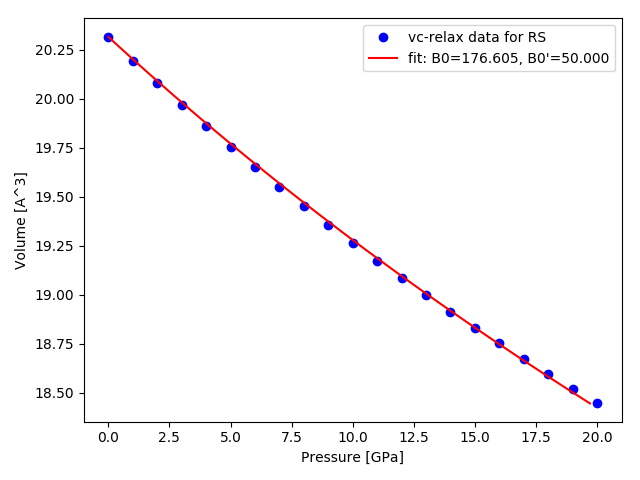
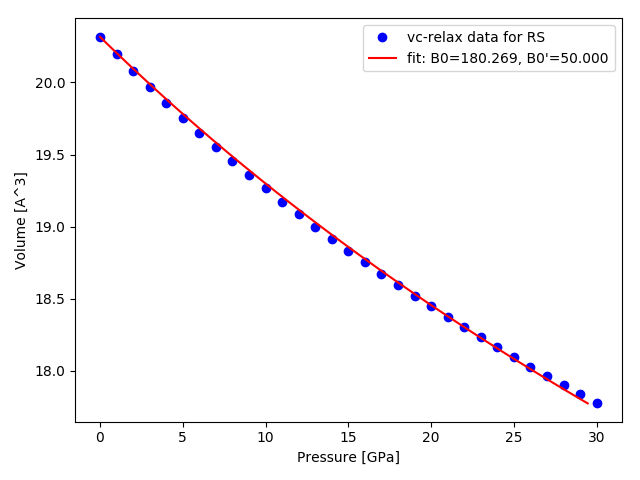
Change code and images for problem 3

diff --git a/3_bulk_modulus/plot.eos.relax.py b/3_bulk_modulus/plot.eos.relax.py
@@ -8,7 +8,7 @@ import numpy as np
 from matplotlib import pyplot as plt
 from scipy.optimize import curve_fit
 
-structure = 'RS'
+structure = 'WU'
 
 def eos(V,b,bd):
     V0_m = V[0]*np.ones(len(V))
@@ -34,7 +34,8 @@ pV = get_p_V()
 print(pV)
 p = pV[:,0]/10  # GPa
 V = pV[:,1]     # A^3
-
+print(p)
+print(V)
 popt, pcov = curve_fit(eos,V,p,bounds=(0,[1000.0,100.0]))
 print('Bulk modulus:\t{} GPa'.format(popt[0]))
 print('Derivation of bulk modulus at p=0:\t{}'.format(popt[1]))
